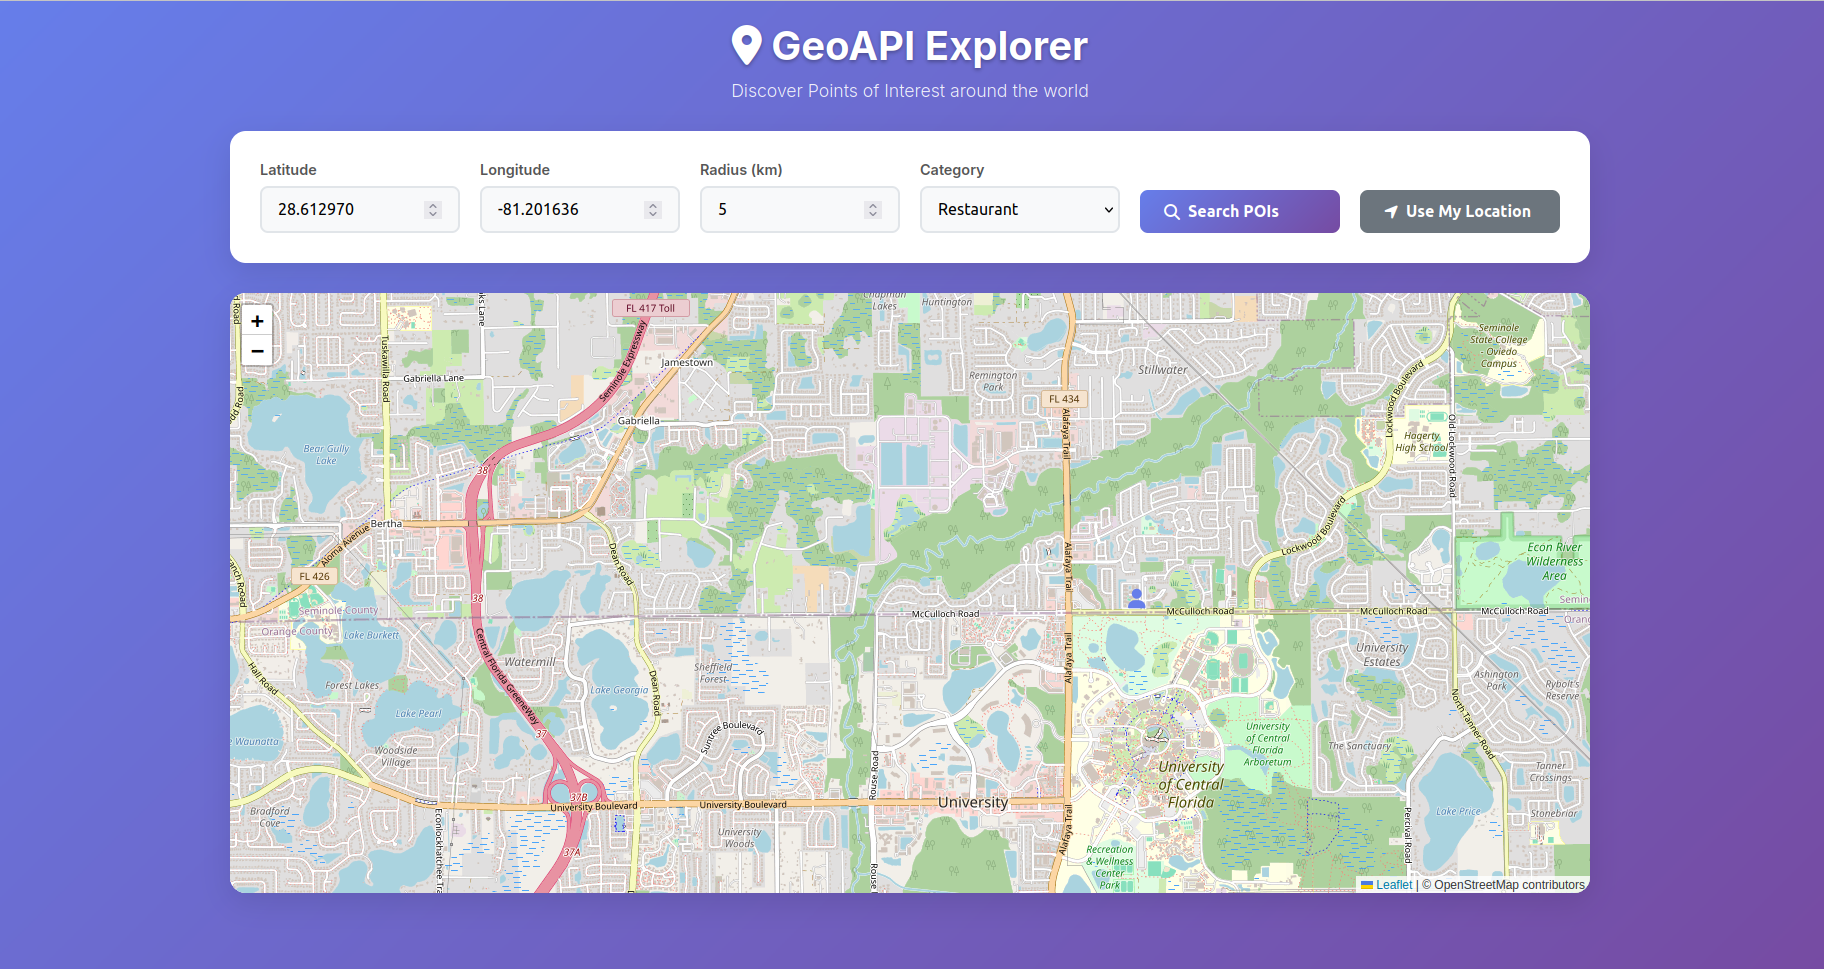
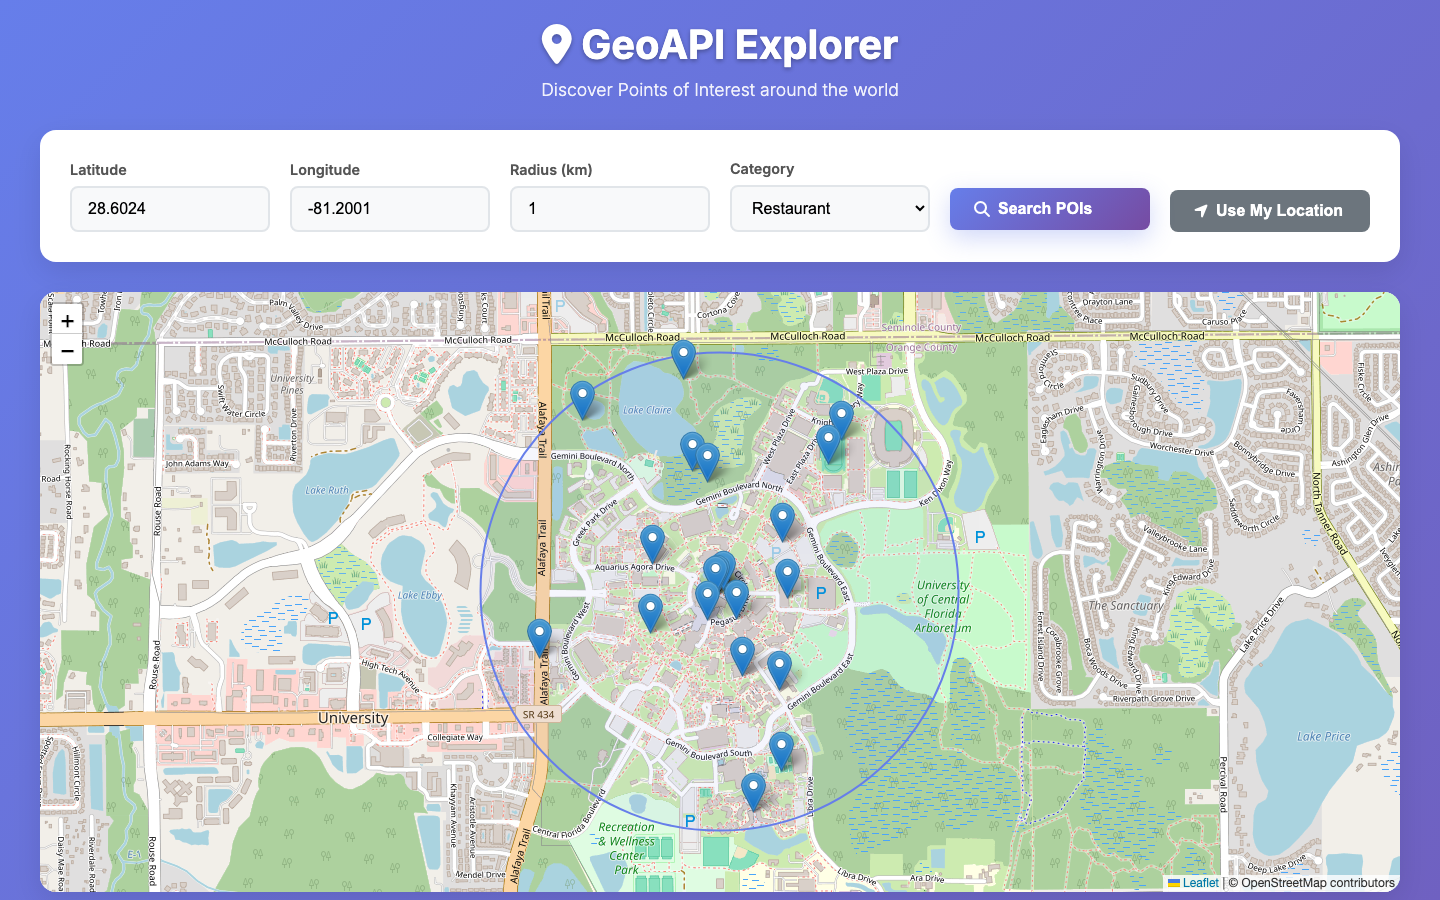
Map UI: read coordinates as the API returns them, so search results show; outline the searched radius, show each result's distance; new screenshots

diff --git a/templates/index.html b/templates/index.html
@@ -388,6 +388,7 @@
         let map;
         let markers = [];
         let currentLocation = null;
+        let searchArea = null;
 
         // Initialize map
         function initMap() {
@@ -405,6 +406,19 @@
         }
 
         // Clear existing markers
+        // Outline the searched radius so the results can be checked against it.
+        function drawSearchArea(query) {
+            if (searchArea) {
+                map.removeLayer(searchArea);
+            }
+            searchArea = L.circle([query.center.lat, query.center.lng], {
+                radius: query.radius_km * 1000,
+                color: '#667eea',
+                weight: 2,
+                fillOpacity: 0.06,
+            }).addTo(map);
+        }
+
         function clearMarkers() {
             markers.forEach(marker => map.removeLayer(marker));
             markers = [];
@@ -415,8 +429,8 @@
             clearMarkers();
             
             pois.forEach(poi => {
-                const lat = poi.location.coordinates[1];
-                const lng = poi.location.coordinates[0];
+                // The API returns coordinates as [longitude, latitude].
+                const [lng, lat] = poi.coordinates;
                 
                 const marker = L.marker([lat, lng])
                     .bindPopup(`
@@ -479,7 +493,8 @@
             let totalRating = 0;
             pois.forEach(poi => {
                 categories[poi.category] = (categories[poi.category] || 0) + 1;
-                totalRating += poi.rating;
+                // DRF serializes the decimal rating as a string.
+                totalRating += parseFloat(poi.rating);
             });
             const avgRating = pois.length > 0 ? (totalRating / pois.length).toFixed(1) : 0;
 
@@ -490,19 +505,20 @@
 
             // Create POI cards
             poiGrid.innerHTML = pois.map(poi => `
-                <div class="poi-card" onclick="focusOnPOI(${poi.location.coordinates[1]}, ${poi.location.coordinates[0]})">
+                <div class="poi-card" onclick="focusOnPOI(${poi.coordinates[1]}, ${poi.coordinates[0]})">
                     <div class="poi-header">
                         <div>
                             <div class="poi-name">${poi.name}</div>
                             <div class="poi-category">${formatCategory(poi.category)}</div>
                         </div>
                         <div class="poi-rating">
-                            ${createStarRating(poi.rating)}
+                            ${createStarRating(parseFloat(poi.rating))}
                             <span style="color: #666; margin-left: 4px;">${poi.rating}</span>
                         </div>
                     </div>
                     <div class="poi-description">${poi.description || 'No description available'}</div>
                     <div class="poi-details">
+                        <div class="poi-detail"><i class="fas fa-route"></i> ${poi.distance_km} km away</div>
                         ${poi.address ? `<div class="poi-detail"><i class="fas fa-map-marker-alt"></i> ${poi.address}</div>` : ''}
                         ${poi.phone ? `<div class="poi-detail"><i class="fas fa-phone"></i> ${poi.phone}</div>` : ''}
                         ${poi.website ? `<div class="poi-detail"><i class="fas fa-globe"></i> <a href="${poi.website}" target="_blank">${poi.website}</a></div>` : ''}
@@ -562,9 +578,11 @@
                 }
                 
                 const data = await response.json();
+                drawSearchArea(data.query);
                 
                 if (data.results && data.results.length > 0) {
                     addPOIMarkers(data.results);
+                    map.fitBounds(searchArea.getBounds().pad(0.05));
                     displayResults(data.results);
                     showSuccess(`Found ${data.results.length} POIs!`);
                 } else {

diff --git a/README.md b/README.md
@@ -3,7 +3,7 @@
 A REST API and map UI for finding points of interest within a radius, built with Django 5, Django REST Framework, GeoDjango, and PostgreSQL 15 + PostGIS 3.
 
 <p align="center">
-  <img src="UI.png" alt="Map UI for radius search" width="900"/>
+  <img src="UI.png" alt="Map UI: a 1 km restaurant search around UCF, with the searched radius outlined and every result inside it" width="900"/>
 </p>
 
 Radius search runs as an index-backed `ST_DWithin` query on a PostGIS **geography** column, so distances are in meters and the GIST spatial index is used. Results include the distance from the query point and can be filtered by category and minimum rating.
@@ -24,6 +24,12 @@ curl "http://localhost:8000/api/pois/pois/?lat=40.7580&lng=-74.0060&radius_km=5"
 ```
 
 Map UI: `http://localhost:8000/` · Interactive API docs: `http://localhost:8000/api/docs/`
+
+The map outlines the searched radius; each result card shows its distance from the center.
+
+<p align="center">
+  <img src="docs/ui-results.png" alt="Result cards with distance, rating and address" width="900"/>
+</p>
 
 `env.sample` lists the settings to change for a production deployment (secret key, `DEBUG`, allowed hosts).
 
